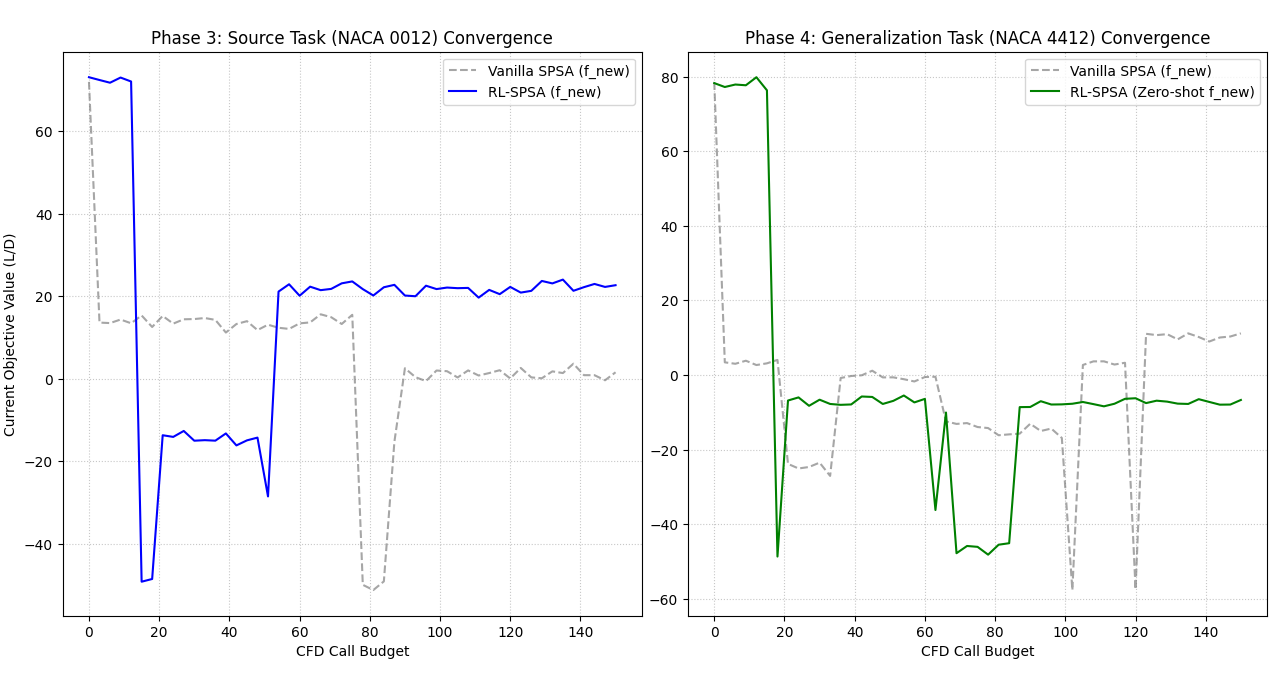
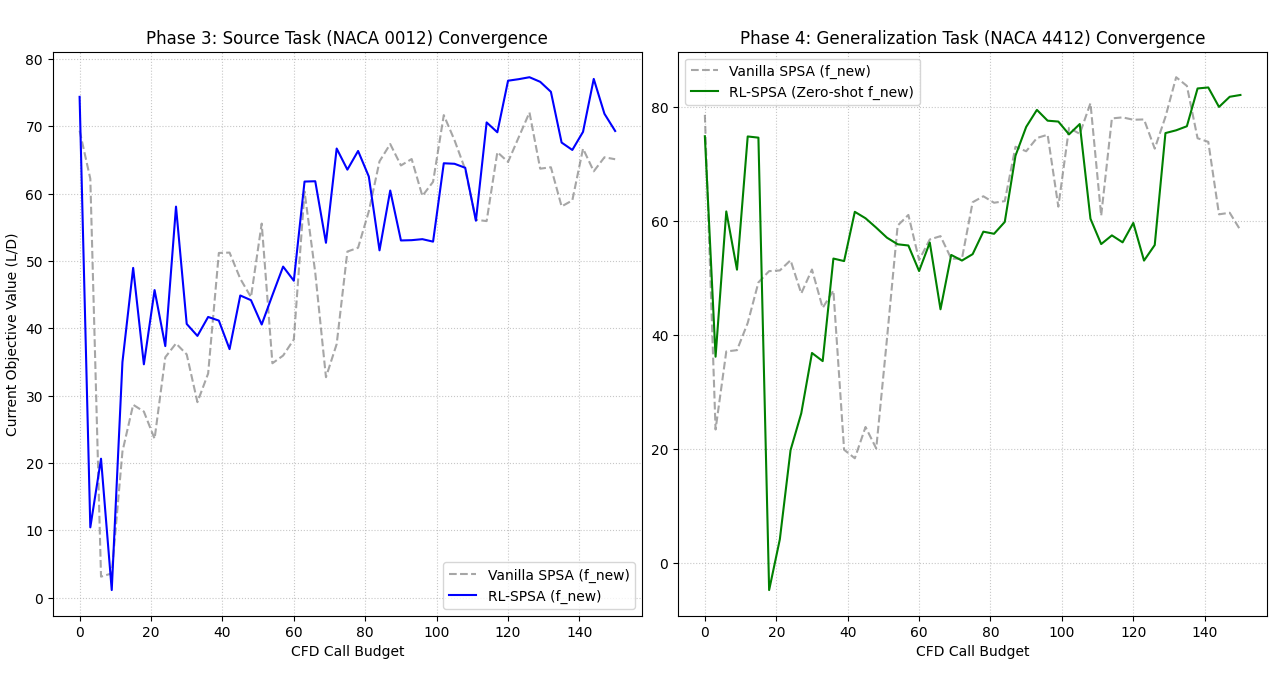
SPSA基础超参调整

diff --git a/main.py b/main.py
@@ -108,8 +108,9 @@ class MetaSPSA_Airfoil_Env(gym.Env):
         self.theta = np.array([0.11] * 5 + [-0.11] * 5)
         self.best_f = self.evaluator.evaluate(self.theta[:5], self.theta[5:])
         self.last_improvement = 0.0
-        # 基础学习率，基础扰动规模
-        self.a_base, self.c_base = 0.5, 0.1
+        # [核心修复] 适配小尺度参数空间的 SPSA 基础超参数
+        self.a_base = 0.005  # 原为 0.5。缩小 100 倍，防止撞墙
+        self.c_base = 0.01  # 原为 0.1。缩小 10 倍，实现精细扰动
         return self._get_obs(), {}
 
     def _get_obs(self):
@@ -141,6 +142,12 @@ class MetaSPSA_Airfoil_Env(gym.Env):
         delta = np.random.choice([-1, 1], size=self.dim)
         theta_plus = self.theta + ck * delta
         theta_minus = self.theta - ck * delta
+
+        # [修复核心] 必须对扰动点进行物理边界截断，防止评估器返回 -50.0 的虚假梯度
+        theta_plus[:5] = np.clip(theta_plus[:5], 0.01, 0.4)
+        theta_plus[5:] = np.clip(theta_plus[5:], -0.4, -0.01)
+        theta_minus[:5] = np.clip(theta_minus[:5], 0.01, 0.4)
+        theta_minus[5:] = np.clip(theta_minus[5:], -0.4, -0.01)
 
         f_plus = self.evaluator.evaluate(theta_plus[:5], theta_plus[5:])
         f_minus = self.evaluator.evaluate(theta_minus[:5], theta_minus[5:])
